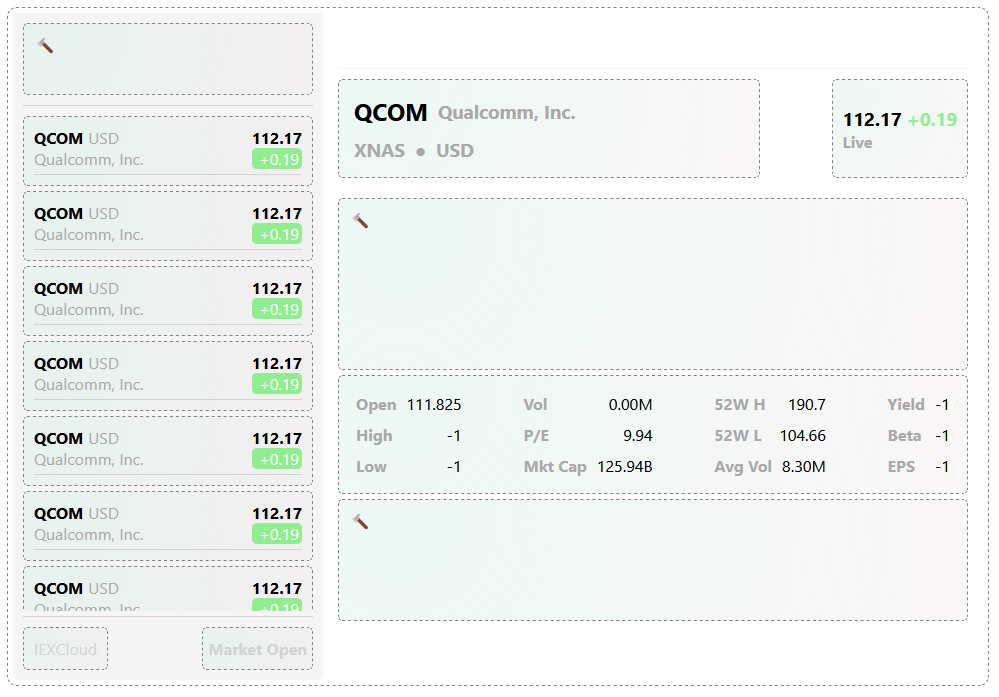
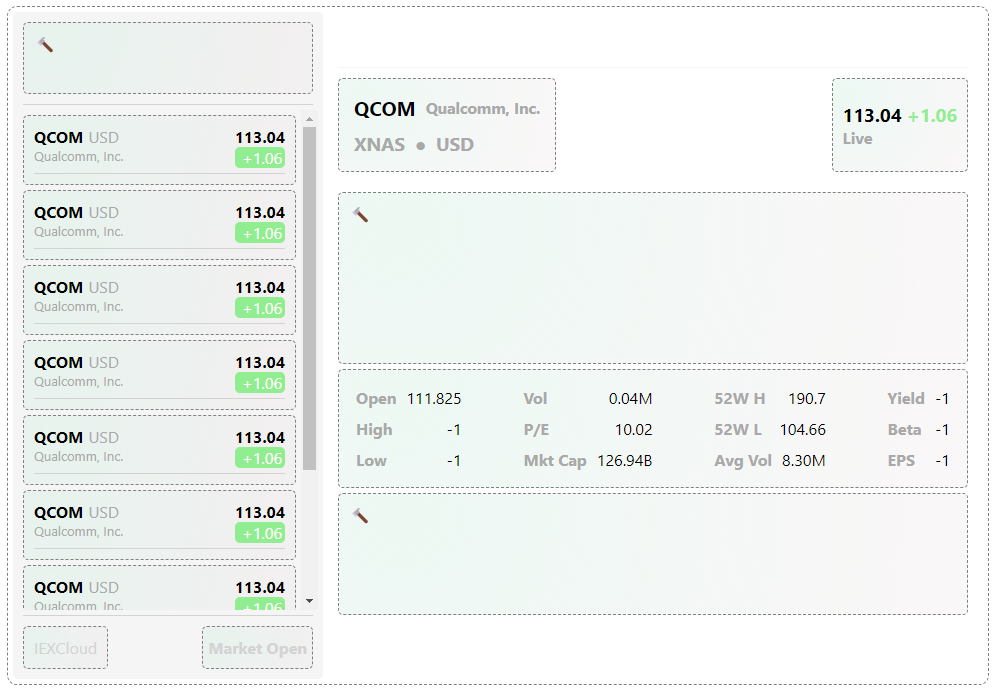
styling updates

diff --git a/src/Components/StockInfo/stockinfo.css b/src/Components/StockInfo/stockinfo.css
@@ -1,6 +1,6 @@
 
 .stock-info {
-    width: 400px;
+    max-width: 300px;
 }
 
 .stock-info h2 {
@@ -19,6 +19,10 @@
     flex-direction: row;
     justify-content: flex-start;
     align-items: center;
+
+    font-size: smaller;
+    white-space: nowrap;
+    overflow: hidden;
 }
 
 .stock-info-metadata {

diff --git a/src/Components/app.css b/src/Components/app.css
@@ -34,7 +34,7 @@
     height: 100%;
 
     max-height: 500px;
-    overflow: scroll;
+    overflow-y: scroll;
 }
 
 .title {

diff --git a/src/Components/SearchResult/searchresult.css b/src/Components/SearchResult/searchresult.css
@@ -27,6 +27,7 @@
     white-space: nowrap;
     overflow: hidden;
 
+    font-size: small;
     color: darkgrey;
 }
 
